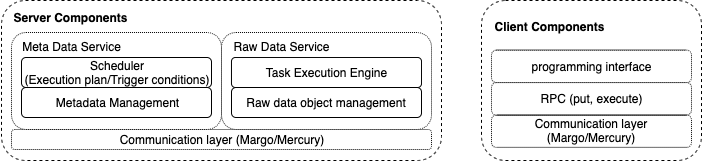
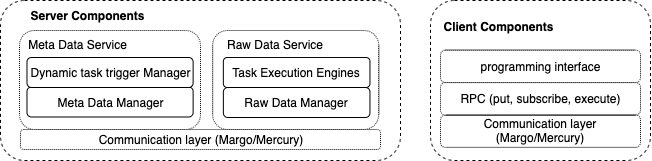
update doc

diff --git a/designDoc/scratch.md b/designDoc/scratch.md
@@ -1,78 +1,105 @@
-### this doc list some the key questions of the system design
+## this doc list some the key questions of the system design
 
-**the motivation and the background**
+### the motivation and the background
 
-For in-transit processing, the data is acquired by the `data get` operation after the `data put`. This pattern is not flexible for the situation that only some parts of the data need to be processed. For example, when there are multiple partitions of the data is put into the staging service, but only some parts of the data need to be processed, it is necessary to filter out the partition that satisfies the user requirements. To fully utilize the idle resources of the staging service and process the specific data partition only when it is necessary, it is necessary to integrate the mechanism of the dynamic task trigger service into the staging node. The task trigger condition can be the operation such as feature detection, data error detection,  or just the data transfer operation such as dumping the data into the disk or transfer the data to the visualization.
+(key challenges, this comes from the ISDM report)
+Data management for the workflow faces an increasing diversity and complexity of in situ use cases and platforms. Many of these cases require the ability to make decisions based on prior computation. In the past, control decisions could be made a priori by humans because workflows were simple (e.g., one simulation and one visualization) and had static resource requirements that were known in advance. This is no longer true, as tasks are becoming more difficult
+to control manually (e.g., deep learning hyperparameter optimization) and because the overall workflows are becoming larger and more complex, featuring multiple data sources and sinks with dynamically changing requirements. Automated, rather than manual, control of in situ workflows is needed, based on rigorous, explainable, reliable, and trustworthy decision-making.
 
-**the state-of-art solution for the in-situ workflow**
+The essence of decision making in workflow management is to trigger a specific task based on a particular condition. This condition can come from the data during the workflow execution or the runtime information of the workflow management tool. We use the `dynamic task trigger` to represents the capability of that triggering the task dynamically based on the specific condition.
 
-Stream processing based on the parallel I/O tool:
-Task A sends the data to parallel I/O (such as ADIOS) and underlying device, the task B load the data from the parallel I/O and process the data. Multiple tasks can be made based on the parallel I/O service. 
+### the state-of-art solution for the dynamic task trigger
 
-In-situ (In-line in-situ, tightly coupdled): 
-The analytics and the visualize is composed together with the simulation. The advantage is to save the time caused by the data transfer between tasks. The defect is the complexity of the workflow design since different services need to be compiled together. Another defect is the pause of simulation during the execution.
+**the in-situ detection is tightly coupled with the simulation**
 
-In-situ (visualization adaptor):
-The visualization tool such as the Catalyst is instrumented into the simulation. The raw data is transferred to the visualization tool, such as the Paraview for in-situ processing. The user could get the simulation results in real-time.
+One solution is to integrate the in-situ analytics such as the feature detection algorithm with the simulation. [This work](https://arxiv.org/pdf/1506.08258.pdf) presents the concept of the indicator and trigger. Specifically, the indicator and trigger are lightweight functions evaluated at a high frequency to make dynamic data-driven control-flow decisions. One body of research focuses on "quick sketches" based on the statistical characteristic to trigger some actions. Some works explore how to use the model comes from the offline machine learning to detect the features.Such as [this example](https://ieeexplore.ieee.org/stamp/stamp.jsp?tp=&arnumber=8365977). Since both the simulation and the analytics are data-intensive operations, the limitation for this pattern is that the time used for executing the analytics will influence the execution time of the simulation. There is also a limitation to compile the detection and the in-situ feature detection together if they use different source code and build tools. [Ascent](https://dl.acm.org/citation.cfm?doid=3281464.3281468) also provides the capability of executing the predefined feature detection during workflow execution. When there are interesting things happening, the associated tasks will be triggered.
 
-In-transit (loosely coupled):
-The data is sent to the staging service by data put API, then data is acquired by `data get` from the analytics/visualization. The staging service can be used to process the data such as error detection before the data get operation. 
+**the in-situ detection is loosely coupled with the simulation**
 
-There still lacks a general programmable mechanism in staging service to control the data trigger based by data-driven pattern. The task in staging service needs to launch dynamically when user-defined requirements are satisfied. This mechanism is required by in-situ workflows for different scenarios. For example, the feature detection can be integrated into the staging service. The subsequent task is triggered for specific data partition when data satisfy a specific pattern. The error detection operation can be integrated into the staging service, the data partition with the error value will not be processed by subsequent task, and the alert message will be sent out.
+Catalyst/SENSI can connect the ParaView server to a running simulation. Data can be extracted from Catalyst instrumented simulation to the ParaView server, and the in-situ analytics can be modified by Paraview during the execution of the simulation. It is also possible to pause the simulation by Paraview in an interactive way. However, the main goal of the middleware, such as SENSI focuses on how to integrate the analytics to assist visualization. Another type of middleware is the data staging service, which moves output data from compute nodes to staging or I/O nodes prior to data storage service (DataStager, DataSpace). By using the high-speed network, this pattern reduces the perturbation when extracting and processing the data. There is a trend to utilize the computing capability at the data staging nodes to improve the flexibility of the workflow. For example, [in this work](https://dl.acm.org/citation.cfm?id=3356158), the error detection operation is integrated with the data staging service. Once a silent error is detected at the staging service before checkpointing, the simulation is rolled back to the last checkpoint and re-executed. However, there is still a lack of a generalized dynamic task trigger mechanism at the data staging service to allow users to express the dynamic task trigger based on customized data checking and feature detection operation.
 
-Although there are several tool provides the in-memory execution based on parallel IO (HDF5, ADIOS).
+### the expression of the dynamic task trigger
 
-SENSI https://gitlab.kitware.com/sensei/sensei/tree/master
-Ascent  https://ascent.readthedocs.io/en/latest/Overview.html https://github.com/Alpine-DAV/ascent
-CINEMA https://cinemascience.github.io/examples.html https://cinemasciencewebsite.readthedocs.io/en/latest/
-
-All these tools are tightly coupled with the visualization tools and aim to filter/trigger the data for visualization. There still lacks a more general dynamic trigger tool at the data staging layer.
-
-**the expression of the dynamic task trigger**
-
-If we use the DAG to represent the task execution. In the DAG, the node of every graph represents a dataset and the edge between two nodes represents the dynamic trigger. The edge between two nodes contains three necessary elements: (DataChecking, Indicator, Condition, Action).
-
-For example, for the `Data_A -> Data_B` where the `->` represents the dynamic task trigger.
-
-The `DataChecking` is a function that maps the `Data_A` into `Indicator`. The `Indicator` is a flag which can be a single value or specific data structure. The `Condition` is the operation that maps the `Indicator` into a boolean value. If the boolean value is true, the `Action` is executed and if the boolean value is false, the `Action` will not be executed. The `Action` is a function that transfer the `Data_A` into the `Data_B`.
-
-For the static trigger, the `DataChecking` and the `Indicator` are empty, the `Condition` is always true. The `DataChecking` operation can be splitted into two specific types, the `metadata_Checking` is executed at the metadata server and the `rawdata_Checking` is executed at the raw data service.
+The dynamic task trigger can be composed by following necessary elements:
 
 ```
-// this is the pseudocode code
-// define the necessary elements
-define DataChecking
-define Indicator
-define Condition 
-define Action
-
-//define the dynamic trigger
-dynamicTrigger dtsource(DataChecking,Indicator,Condition,Action)
-dynamicTrigger dttask(DataChecking,Indicator,Condition,Action)
-
-DAG dag
-dag.dtsource().dttask()
-
-startExecution(dag,boundingbox)
+(Function, Operator, Action)
 ```
 
-**how the put operation work**
+The `Function` is the function that is called when the dynamic trigger starts, it can be the function to get and check the specific data. The `Operator` will use the results of the function execution to caculate the indicator value. If indicator is true, the `Action` will be executed.
 
-The first step of the data put operation is same with the DataSpaces. 
 
-**how the task scheduler work for dynamic task trigger**
+The control flow for the expression `dynamicTrigger(f,o,a)` is
 
-When the `startExecution` is called, the `DAG` will be put to the corresponding task scheduler. If the domain across multiple metadata server, all the metadata server will get coresponding DAG. Then when there is metadata update for specific metadata server, the data checking operation will be executed, then the indicator is executed according to the condition. If it is ok to check the metadata, the RPC will be sent to the raw data service to check the raw data.
+```
+results = f()
+indicator = operator(results)
+if(indicator){
+    call a()
+}
+```
 
-(TBD)
-If there is one data partition across the whole domain but multiple metadata service, all the metadata server contain the metadata of this partition. When there is subscribe, the DAG locates on every data server. When there is data update, the same metadata locates on different metadata service. If using the same scheduler strategies, the raw data will be checked multiple times. (potential solution, before sending the DAG to the raw data service, ask if this DAG is in execution) (control the number of the master server, make it larger than the partition number)
+For example, one common case is that
 
-**how to run the task and where to run the task**
+```
+If the average value for data set d is larger than 10, then trigger task t
+```
 
-the task (Action) will run when the indicator satisfy the condition. The action can run at the metadata server (there might be several partitions returns several indicator values)
+For this expression, the checking function is `avg of data set d`, and the operator is to execute the `comparison operation (>)` (The number 5 can be the parameter associated with the operator), the action is the task `t`. The function, operator and the action defined here are the interfaces which can be implemented by different concrete class.
 
-**how to build complex cases based on the condition trigger primitives**
+### how to integrate the dynamic trigger with the staging service
 
-(TBD, one potential solution is to use different status to label the raw data)
+The data is divided into the metadata and the raw data, we could execute the following dynamic trigger at the staging service when there is the update of specific metadata:
 
-<img src="../fig/workflowexample.png" alt="drawing" width="500"/>
+```
+dynamicTrigger(getMeta(),operator,action)
+```
+
+The first parameter is the function `getMeta` in this case, it will extract the metadata of specific variable. For example, the function might extract the timestep from the metadata. The `operator` can be the `greater than`, in this case, the action will be triggered whent the step is larger then specific threshold.
+
+The `action` defined here can be another dynamic trigger:
+
+```
+dynamicTrigger(rpcCall,operator,action)
+```
+
+The first parameter is the `rpcCall` that sends RPC to the raw data service. This RPC will notify the `task execution enginge` at the raw data service to execute the checking function. The return value might be a list that contains the results of the checking operation from different data partitions. The `operator` can be more complicated in this case since it needs to calculate the indicator value based on several return values from the RPC call. 
+
+### how the put operation work
+
+The first step of the data put operation is same with the DataSpaces. The dynamic trigger will be executed when coresponding metadat is updated.
+
+### how the dynamic task trigger manager work
+
+When the dynamic task trigger is subscribed into the staging service (meta data management service), the description of the dynamic trigger will be put to the corresponding task metadata service according to the spatial index. Then when there is a metadata update for a specific metadata server, the data checking operation will be executed, and the execution results are returned to the metadata service after the data checking operation. The metadata server will evaluate the indicator according to the operator defined by the dynamic task trigger, and if the indicator value returned by the operator is true, the subsequent task will be executed.
+
+This is the time sequence which shows the interaction between the metadata service and the raw data service:
+
+<img src="../fig/timesequence.png" alt="drawing" width="500"/>
+
+### the behaviour of the metadata servers
+
+When registering the dynamic trigger into the staging service, the prototype of API is `register(<varName>,<bounding box>,<tuple of the function name that represents the dynamic task trigger>)`. At the register step, the dynamic trigger is indexed by a string (name of the dyanmci trigger) at the metadata server. The server that accepts the dynamic request will calculate the metadata server that corresponds with the region of the bounding box. If there is only one metadata server, the dynamic trigger will be registered into that server. If the region of the bounding box is across the multiple metadata servers, the information of the dynamic trigger is put at the first metadata server, and other metadata servers will store `(<varName> <bounding box> <the address of the fist metadata server> <the name of the dynamic task trigger>)`. In this case, the other metadata server will store a `pointer` to the original metadata server where the real information of the dynamic task triggered located. 
+
+When the data indexed by the second metadata server is updated, the dynamic trigger at the second metadata is executed. Since this is only a dummy dynamic task trigger, it will send a request to the first metadata server to start the real task trigger operation. This strategy will avoid the dynamic trigger to be executed several times if the subscribed domain across the multiple metadata servers. After the metadata put operation, the metadata server just need to check if there is specific `dynamic trigger expression` registered at the current server. The corresponding dynamic trigger will be executed if there are registered dynamic triggers.
+
+### the raw data management and the metadata management
+
+1> how the data is stored and indexed at the raw data service？
+
+The storage layer will use the FIFO cache, there is a queue that maintain the window of the steps. The data out of this window will be dumped into the persistent storage. The data at the raw data server is indexed by the `<step, varName, partition id>`, and both metadata and the raw data are stored there. 
+
+2> how the metadata is indexed at the metadata server ?
+
+The data partition at the metadata server is indexed by the `<step, varName, bounding box>`. the value is the `<address of the raw data server, the partition id>`. 
+
+3> how specific metadata server is found when the raw data service updates the metadata service or when there is API sent by the client according to the bounding box.
+
+The SFC curve is used to transfer the multi-dimensional global domain space into the 1d space, and then the 1d domain is partitioned according to the number of the metadata servers.
+
+
+### task execution engine
+
+The capability to execute the task at the staging service is provided by the Argobot. It also serves as the thread management tool for the underlying RPC communication layer.
+
+

diff --git a/designDoc/architectureAndUsecase.md b/designDoc/architectureAndUsecase.md
@@ -1,0 +1,90 @@
+### The architecture of the server and the client
+
+<img src="../fig/architecture.png" alt="drawing" width="800"/>
+
+**The client service**
+
+The programming interface provides the abstraction about how to define the dynamic task trigger.
+
+The API could also be called directly, such as data put from the data producer.
+
+**The raw data object service**
+
+The data will be put into the raw data object service when the `put` API is called. The task execution engine will apply the task to the specific data. When to start the task execution is controlled by the scheduler in the metadata service.
+
+**The metadata service**
+
+The metadata service manages the metadata of the raw data object. The strategy to get the address of the data server is the same with the DataSpaces (using SFC and then get then compute the corresponding id of the metadata service). The controller is in charge of starting the dynamic task trigger subscribed by the user. (The details is described at [scratch.md](./scratch.md))
+
+
+### End to End use case
+
+**the motivation task and current solution**
+   
+The end to end use case is described based on the following [simulation-analytics-visuzlization](https://github.com/pnorbert/adiosvm/tree/master/Tutorial/gray-scott) workflows:
+
+The simulation (Gray-Scott) is the data producer that runs by the MPI program, and every process will generate a specific data partition. Then the partition will be processed by the `isosurface filter`. The `find_blob` operation will reduce all the partition generated by the `isosurface filter` to calculate the number of the blob in a particular step. If the number of blobs is larger than the specific value, the data will be saved into the VTK file for visualization. 
+
+The current way to execute this workflow is based on the parallel I/O (put/get interfaces such as ADIOS) by following way:
+
+```
+mpirun -n 4 build/gray-scott simulation/settings-staging.json &
+mpirun -n 4 build/isosurface analysis/isosurface gs.bp iso.bp 0.5 &
+mpirun -n 1 build/find_blob analysis/find_blob iso.bp vtkdir &
+```
+
+The `gray-scott` simulation outputs raw data into the ADIOS service.  The name of the data identifier is `gs.bp`. The `isosurface` is analytic that runs concurrently with the `gray-scott` simulation and processes the data generated by gray-scott simulation at each step. The input of the `isosurface` is the raw data (`gs.bp`), and the output is the representation of the `isosurface` (the data identifier is `iso.bp`). The `find_blob` operation also runs together with the other two programs and processes the data. It is worth noting that the `find_blob` operation will aggregate all the data partition together because the `find_blob` algorithm needs to run for the whole data partitions generated by a specific step. There is also [parallel version](https://vtk.org/doc/nightly/html/classvtkPConnectivityFilter.html) of the `find_blob`, but it is only available for specific initial settings we only focus on the centralized version here.
+
+**the shortcomings for current solution**
+
+For every data partition, there are at least three times data write and two times data read during the whole workflow described above. The number of the data write/read will also increase when the workflow becomes complicated. Every data write/read operation lead the data movement between different devices. In order to decrease the overhead of the data read/write, one method is to use the high-speed networking and in-memory data staging service as the I/O node to manage the data transfer. However, there is still data movement between in-memory data staging service and data analytics. If we run the data analytics where data is located and transfer the data when it is necessary, those redundant data movements can be avoided. Besides, the computation resources at the in-memory data staging service can also be better utilized. Therefore, the flexible task execution engine needs to be integrated into the data staging service to execute the task in the data staging service. Besides, the flexible controller mechanism also needs to be integrated into the staging service to control the data movement when it is necessary and execute the task on the node where data is located.
+
+**how to use dynamic task trigger in staging service to execute the same workflow**
+
+In the document of [scratch](./scratch.md), we define the dynamic task trigger by the following expression `(Function, Operator, Action)`.  In this part, we will explain how to use multiple dynamic task triggers to execute the workflow described above. We assume the following functions have already been defined at the data execution engine of the data staging services:
+
+
+`execute_isosurface`: send the RPC to the task execution engine to execute the isosurface filter for the specific data partition.
+
+`check_isosurface_value`: check the object that represents the isosurface. This function returns true if the object contains a valid isosurface value.
+
+`storeObjectandPutMetaData`: store the data object at the current raw data server and update the metadata.
+
+`execute_find_blob`: send the RPC to the task execution engine to execute the find blob filter.
+
+`check_blob_number`: check the return value of the find_blob operation. The function returns true if the number of blobs locates in a specific threshold region.
+
+`outputToVTK`: this function will write the specific data into the VTK file for visualization.
+
+The user can organize the dynamic task execution by the following program:
+
+```
+DynamicTrigger trigger_A("<variable name of rawData>", "execute_isosurface", "check_isosurface_value", "storeObjectandPutMetaData")
+
+DynamicTrigger trigger_B("<variable name of isovalue>", "execute_find_blob", "check_blob_number", "outputToVTK")
+
+DynamicTriggerList triggerList = [trigger_A, trigger_B]
+
+registerAndBind ("<bounding box index>", triggerList)
+```
+
+For the `registerAndBind ("<bounding box index>", triggerList)`, the dynamic task triggers included in triggerList is registered to the metadata server that associated with the `<index bounding box>`. It also binds the `<bounding box index>` with the `triggerList`. This means when there is udpating of the metadata within `"<bounding box index>"`, the dynamic task triggers defined in triggerList will be checked and started. When there is metadata updating, the corresponding dynamic trigger is executed. For example, the `trigger_A` will be executed when there is an update of the metadata of raw data. The execution of the `trigger_A` follows the description at [scratch](./scratch.md). In particular, it sends the RPC to the task execution engine in raw data service to execute the `isosurface`  filter. The execution results will be returned to the metadata server and checked according to `check_isosurface_value`. If there is valid `isosurface` value, the data generated by the `isosurface` filter will be stored at the corresponding raw data service, and the metadata for isosurface value  will be updated (function `storeObjectandPutMetaData`). The `trigger_B` will be started when there is the metadata update for the isosurface value. The `trigger_B` will execute the `find_blob` operation by RPC call, then the of `execute_find_blob` will be executed when there is return value from the RPC call. If the return value satisfies the requirements, the `outputToVTK` will be executed.
+
+It is worth noting that the first step to execute the `find_blob` operation is to aggreate all the partition from the raw data server. Since the operation of `find_blob` use the `VTK` function. We will provide the data aggregation based on VTK object. The `find_blob` operation will be executed based on this aggregated VTK object. Since there are multiple timesteps, the `find_blob` operation can be executed at different servers for different timesteps
+
+It is even more flexible to declare the dynamic trigger in a recursive way (the dynamic task trigger can be triggered directly by another dynamic task trigger):
+
+
+```
+DynamicTrigger trigger_A("<variable name of rawData>", "execute_isosurface", "check_isosurface_value", "storeObjectandPutMetaData")
+
+DynamicTrigger trigger_C("variable Name", "getMetaData", "checkMetaData", "executeTrigger_A")
+
+register ("<bounding box index>", trigger_A)
+
+registerAndBind ("<bounding box index>", trigger_C)
+```
+
+In this example, the metadata will be checked firstly at the metadata server, when it satisfies the requirements such as step is larger than a specific threshold, the `trigger_C ` registered at the staging service will be executed. The `register` API just put the defined trigger into the metadata server. In this case, the start of the dynamic task trigger is the action defined in other dynamic task trigger services. The `registerAndBind` will put the defined trigger into the metadata server and establish the connection between the bounding box and the trigger (the dynamic trigger will be started when the metadata in this bounding box is updated).
+
+It is also worth noting that there is no restriction about the sequence between the data put and the registration of the dynamic task trigger. The dynamic task trigger can be registered before the producer starts or during the producer execution.

diff --git a/designDoc/scalableMetadata.md b/designDoc/scalableMetadata.md
@@ -1,28 +1,18 @@
 ## The scalable metadata management service
 
-The data management layer needs to provide the scalability for data put and the profile subscribe operation to support the large scale use cases. The metadata service is the core component to support large scale capability.
+The data management layer needs to provide the scalability for data put, and the profile subscribe operation to support the large scale use cases. The metadata service is the core component to support large scale capability.
 
 The data management service is divided into the raw data object service and the metadata service. This design assumes that the data partitions are fixed during the running time. 
 
-The core problem is to solve how data is indexed in the scalable way. There are three questions need to be addressed separately.
+The core problem is to solve how data is indexed in a scalable way. There are three questions need to be addressed separately.
 
-1 how the metadata server is indexed according to the user's query (the query might contains spatial information such as the bounding box)
+(TODO, reorganize based on following three questions)
+
+1 how the metadata server is indexed according to the user's query (the query might contain spatial information such as the bounding box)
 
 2 how the metadata on the specific metadata server is indexed
 
 3 how the raw data on the data object server is indexed
-
-### static partition of the simulation
-
-In this case, we assume the partition of the simulation is fixed from the beginning of the simulation
-
-During the initialization stage, all processes owned by data management service is divided into the master service (rank=0) and the raw data object service. (Every service is a process of the MPI which run distributed among different nodes, every process only need to start on one node since we provide the thread pool to use the multiple multiple CPU on each node)
-
-Once the simulation starts, it sends the `init` RPC call to the data management service. This RPC call contains the bounding box for the specific partition (This RPC should be called when the operation of partitioning data at the simulation finish). The data service which receives the `init` RPC is selected by a round-robin policy. The service that accepts the `init` RPC will also become the metadata service at the same time. During the initializing step, the metadata server will send its address and the partition info (bounding box) to the master service. The master service will use the R tree (https://dl.acm.org/citation.cfm?id=602266) to maintain the partition received from specific metadata service. The leaf node of the R tree store the address of the metadata service.
-
-When there is a subscribe operation, the metadata service will be acquired by asking the master service according to the partition of the R tree (it might be a list). Then the subscription will be sent to all the corresponding metadata services. If the R tree is not built yet, the subscription will be put at the master service, and the above operation will be put into a callback function which will be called after the R tree is built successfully.
-
-When there is data put operation, the client will choose a raw data service by the hash value of the (varname, partitionID, step). It is also ok to use the random selection or the round-robin pattern. The goal is to distribute the data among all the available data object service evenly as much as possible. After the `put` operation, the raw data object service will ask the master service to get the address of corresponding metadata service for specific partition (by R tree search). Then the subscribed profile can be acquired by asking this metadata service. The filter manager will be created according to the content of the subscribed profiles. This information (profile and the metadata server for this data partition, the part of the R tree) will be stored at the specific data server for future reuse. The information at the metadata server will be updated after the data put. The checking service will be started asynchronously. If there is an unsubscribe operation, the profile and the filter manager will be deleted for the whole cluster. The R tree index could find the metadata that holds the corresponding profile, and the unsubscribe operation will be sent to the corresponding metadata service, the metadata service will send unsubscribe to all the corresponding data services.
 
 ### dynamic partition of the simulation
 
@@ -35,3 +25,22 @@ One disadvantage of this method is that the data partition from the put operatio
 When there is data put, the information of the bounding box is also included, the id is calculated according to the space-filling curve, then the id of the metadata server can be calculated according to the method discussed above. In this case, the data partition from the put operation might relate with several metadata services, and every metadata server will be updated (the raw data object service will send the corresponding metadata to the list of the metadata service)
 
 When there is data subscribed, the same operation can be used, the subscription that across several metadata services will be sent to the corresponding metadata service. The operation of calculating the meta server can be done at the client end. 
+
+There are still some limitations to map the specific partition into the specific metadata servers by the space filling curve way, this can be optimized further.
+
+(1) The space filling curve is only suitable for the domain with the same partition, one method is to find the largest number for every dimention, but in this way, some metadata server will not be used if the input data partition is the domain which have the large distinction between different dimention.
+
+(2) essentially, there is another view for the metadata server. Since the partition of the data get might be different with the partition of the data put, the extra assembly operation is needed in some cases, when get a data, maybe the data is get by different partition and combined together at last.
+
+### static partition of the simulation
+
+In this case, we assume the partition of the simulation is fixed from the beginning of the simulation.
+
+During the initialization stage, all processes owned by data management service is divided into the master service (rank=0) and the raw data object service. (Every service is a process of the MPI which run distributed among different nodes, every process only need to start on one node since we provide the thread pool to use the multiple CPU on each node)
+
+Once the simulation starts, it sends the `init` RPC call to the data management service. This RPC call contains the bounding box for the specific partition (This RPC should be called when the operation of partitioning data at the simulation finish). The data service which receives the `init` RPC is selected by a round-robin policy. The service that accepts the `init` RPC will also become the metadata service at the same time. During the initializing step, the metadata server will send its address and the partition info (bounding box) to the master service. The master service will use the R tree (https://dl.acm.org/citation.cfm?id=602266) to maintain the partition received from specific metadata service. The leaf node of the R tree store the address of the metadata service.
+
+When there is a subscribe operation, the metadata service will be acquired by asking the master service according to the partition of the R tree (it might be a list). Then the subscription will be sent to all the corresponding metadata services. If the R tree is not built yet, the subscription will be put at the master service, and the above operation will be put into a callback function which will be called after the R tree is built successfully.
+
+When there is data put operation, the client will choose a raw data service by the hash value of the (varname, partitionID, step). It is also ok to use the random selection or the round-robin pattern. The goal is to distribute the data among all the available data object service evenly as much as possible. After the `put` operation, the raw data object service will ask the master service to get the address of corresponding metadata service for specific partition (by R tree search). Then the subscribed profile can be acquired by asking this metadata service. The filter manager will be created according to the content of the subscribed profiles. This information (profile and the metadata server for this data partition, the part of the R tree) will be stored at the specific data server for future reuse. The information at the metadata server will be updated after the data put. The checking service will be started asynchronously. If there is an unsubscribe operation, the profile and the filter manager will be deleted for the whole cluster. The R tree index could find the metadata that holds the corresponding profile, and the unsubscribe operation will be sent to the corresponding metadata service, the metadata service will send unsubscribe to all the corresponding data services.
+
